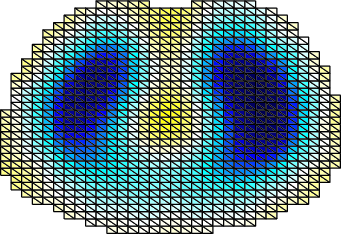
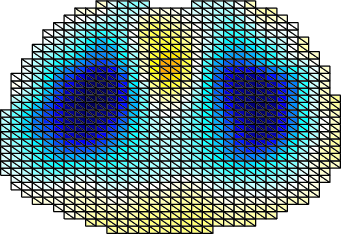
correct lung conductivity contrast
git-svn-id: svn+ssh://svn.code.sf.net/p/eidors3d/code/trunk@2798 82006732-fb7e-4a22-9f28-86a212cce563

diff --git a/htdocs/tutorial/GREIT/adult_ex01.m b/htdocs/tutorial/GREIT/adult_ex01.m
@@ -1,9 +1,7 @@
 fmdl= mk_library_model('adult_male_16el_lungs');
 fmdl.electrode = fmdl.electrode([9:16,1:8]);
 img = mk_image(fmdl, 1); % background conductivity
-% Note, I don't understand why it takes a conductivity increase
-%  here: This needs to be debugged further
-img.elem_data([fmdl.mat_idx{2};fmdl.mat_idx{3}]) = 1.3; % lungs
+img.elem_data([fmdl.mat_idx{2};fmdl.mat_idx{3}]) = 0.3; % lungs
 subplot(211); show_fem(img);
 print_convert adult_ex01a.png
 show_fem(img,[0,1]); view(2); %electrode #'s
